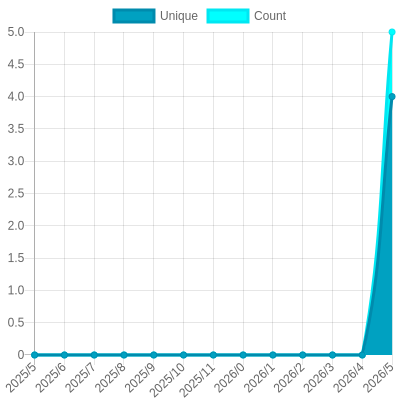
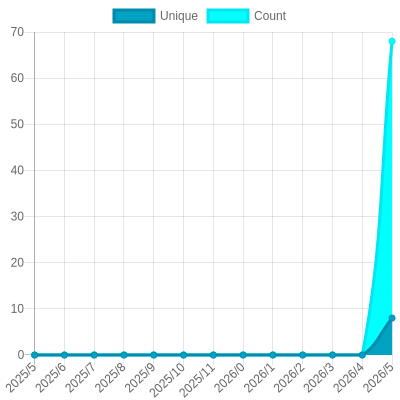
Update views

diff --git a/readme/915565295/year.md b/readme/915565295/year.md
@@ -23,10 +23,10 @@
 			<code>2025/6/1</code>
 		</td>
 		<td>
-			<code>4</code>
+			<code>8</code>
 		</td>
 		<td>
-			<code>5</code>
+			<code>68</code>
 		</td>
 	</tr>
 	<tr>
@@ -164,7 +164,7 @@
 </table>
 
 </details>
-<small><i>Last updated on 2025/6/26 12:38 PM UTC</i></small>
+<small><i>Last updated on 2025/6/26 6:26 PM UTC</i></small>
 
 ## ✂Copy and 📋 Paste
 ### SVG Badge

diff --git a/README.md b/README.md
@@ -149,7 +149,7 @@ The project created and maintained by [gayanvoice](https://github.com/gayanvoice
 	</tr>
 </table>
 
-<small><i>Last updated on 2025/6/26 12:38 PM UTC</i></small>
+<small><i>Last updated on 2025/6/26 6:26 PM UTC</i></small>
 
 ## ✂Copy and 📋 Paste
 ### Total Views Badge

diff --git a/readme/878437316/year.md b/readme/878437316/year.md
@@ -164,7 +164,7 @@
 </table>
 
 </details>
-<small><i>Last updated on 2025/6/26 12:38 PM UTC</i></small>
+<small><i>Last updated on 2025/6/26 6:26 PM UTC</i></small>
 
 ## ✂Copy and 📋 Paste
 ### SVG Badge

diff --git a/readme/911507619/year.md b/readme/911507619/year.md
@@ -164,7 +164,7 @@
 </table>
 
 </details>
-<small><i>Last updated on 2025/6/26 12:38 PM UTC</i></small>
+<small><i>Last updated on 2025/6/26 6:26 PM UTC</i></small>
 
 ## ✂Copy and 📋 Paste
 ### SVG Badge

diff --git a/readme/947229676/year.md b/readme/947229676/year.md
@@ -164,7 +164,7 @@
 </table>
 
 </details>
-<small><i>Last updated on 2025/6/26 12:38 PM UTC</i></small>
+<small><i>Last updated on 2025/6/26 6:26 PM UTC</i></small>
 
 ## ✂Copy and 📋 Paste
 ### SVG Badge

diff --git a/readme/998509329/year.md b/readme/998509329/year.md
@@ -164,7 +164,7 @@
 </table>
 
 </details>
-<small><i>Last updated on 2025/6/26 12:37 PM UTC</i></small>
+<small><i>Last updated on 2025/6/26 6:26 PM UTC</i></small>
 
 ## ✂Copy and 📋 Paste
 ### SVG Badge

diff --git a/readme/998878763/year.md b/readme/998878763/year.md
@@ -164,7 +164,7 @@
 </table>
 
 </details>
-<small><i>Last updated on 2025/6/26 12:37 PM UTC</i></small>
+<small><i>Last updated on 2025/6/26 6:26 PM UTC</i></small>
 
 ## ✂Copy and 📋 Paste
 ### SVG Badge

diff --git a/readme/999749048/year.md b/readme/999749048/year.md
@@ -164,7 +164,7 @@
 </table>
 
 </details>
-<small><i>Last updated on 2025/6/26 12:37 PM UTC</i></small>
+<small><i>Last updated on 2025/6/26 6:26 PM UTC</i></small>
 
 ## ✂Copy and 📋 Paste
 ### SVG Badge

diff --git a/readme/999750885/year.md b/readme/999750885/year.md
@@ -164,7 +164,7 @@
 </table>
 
 </details>
-<small><i>Last updated on 2025/6/26 12:37 PM UTC</i></small>
+<small><i>Last updated on 2025/6/26 6:26 PM UTC</i></small>
 
 ## ✂Copy and 📋 Paste
 ### SVG Badge
